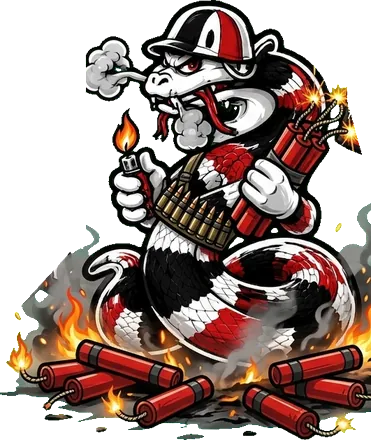
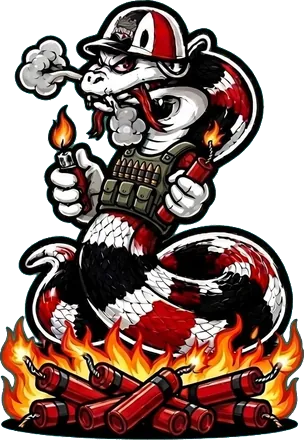
Tricolor do Arruda FC: Cobra da Dinamite refeita da prancha SOZINHA que o dono mandou — agora sem perda nenhuma
O Diego mandou a mascote sozinha no fundo verde (o caminho sugerido quando a
prancha cheia não tinha recorte honesto). Resultado: a cobra inteira, com a
fumaça do rosto, as duas colunas de fumaça, as faíscas e o fogo do chão —
nada cortado. 304x440, 41,5 KB.

Receita nova, pra fundo verde ESCURO (esta prancha): a chave por g-max(r,b)
NÃO serve, porque o fundo tem d≈70, dentro da faixa da arte. A que funciona é
por DISTÂNCIA da cor do fundo (medido: fundo a ≤8, arte a ≥28). E o fundo
escuro TINGE o contorno preto do desenho, deixando um fio verde-musgo em
volta — então todo pixel em que o verde lidera vira neutro (a arte não tem
verde nenhum). Conferido: 0 pixels esverdeados na borda.

Claude-Session: https://claude.ai/code/session_018Ap1zPCMVL9XeZJN3u93ZA

diff --git a/src/escalacao/mascotes.tsx b/src/escalacao/mascotes.tsx
@@ -471,18 +471,16 @@ export const MASCOTES: Record<string, ReactNode> = {
   // 16/08): a MESMA cobra que aparece no escudo, recortada dele (boné virado,
   // cachimbo fumegando, isqueiro na mão). Arte própria do dono; o recorte do
   // escudo de trás foi feito aqui. mascote_key = "cobra_arruda".
-  // 🔁 10/09 (madrugada): trocada de novo, a pedido do Diego, pela COBRA DA DINAMITE
-  // (boné tricolor, isqueiro, cartucheira, bananas de dinamite e fogo no chão).
-  // 371x440 no arquivo. Na prancha ela estava POR CIMA do escudo e da camisa: o
-  // recorte seguiu o contorno da camisa (x=824/858) e a borda MEDIDA do escudo
-  // (diagonal de (420,498) a (290,640), com 12 px de folga) — a fumaça que subia
-  // sobre a camisa e a que cobria o escudo se perderam; o Diego viu e aprovou.
-  // 🔁 09/09: ARTE NOVA do dono — a cobra-coral de camisa tricolor, punhos fechados
-  // e pé na bola (sem cachimbo). 232x440 no arquivo (era 319x440): é alta e estreita.
-  // O punho direito ENCOSTAVA na manga da camisa da prancha — corte em degraus
-  // (acima do punho tudo à direita de x=958 é camisa; na altura do punho, 1000).
+  // 🔁 10/09 (madrugada): a COBRA DA DINAMITE — boné tricolor, isqueiro, cartucheira,
+  // bananas de dinamite e fogo no chão. 304x440 no arquivo.
+  // 🧼 A 1ª prancha vinha com a cobra POR CIMA do escudo e da camisa (fumaça e cauda
+  // sobrepostas, sem recorte honesto). O Diego pediu a arte SOZINHA e mandou de novo —
+  // é esta. Fundo verde-ESCURO desta vez: a chave é por DISTÂNCIA da cor do fundo
+  // (medida: fundo a ≤8 de distância, arte a ≥28), não pelo verde puro. Como o fundo
+  // escuro TINGE o contorno preto do desenho (fio verde-musgo em volta), todo pixel em
+  // que o verde lidera vira neutro — a arte não tem verde nenhum. Zero perda.
   cobra_arruda: (
-    <img src={arrudaCobraImg} height={176} width={Math.round(176 * 371 / 440)} alt="Cobra Coral — Tricolor do Arruda FC" style={{ flex: 'none', display: 'block', objectFit: 'contain' }} />
+    <img src={arrudaCobraImg} height={176} width={Math.round(176 * 304 / 440)} alt="Cobra Coral — Tricolor do Arruda FC" style={{ flex: 'none', display: 'block', objectFit: 'contain' }} />
   ),
   // 🃏⚫⚪ o CORINGA (mascote dos Coringas do Diniz — lucas_calefi, aprovado 16/08):
   // o coringa de camisa listrada preto e branco, com a bola no braço e a carta na

diff --git a/docs/pendencias.md b/docs/pendencias.md
@@ -264,9 +264,15 @@ isqueiro, cartucheira, bananas de dinamite e fogo) pra virar a mascote.
   a prévia pro Diego SEM publicar. Opções: (a) usar assim; (b) pedir ao Geovany a
   cobra SOZINHA na prancha verde (ideal); (c) manter a Cobra Coral de punhos.
   **Decisão do Diego (22h34):** *"tire esse pedacinho que sobrou do escudo e mande
-  o mockup logo e publique"* → publicada (371x440, 40,9 KB), com a borda do escudo
-  MEDIDA na régua (diagonal (420,498)→(290,640), folga 12 px). A fumaça sobre a
-  camisa e sobre o escudo ficou de fora, com o OK dele.
+  o mockup logo e publique"* → publicada (371x440). **E logo depois ele mandou a arte
+  SOZINHA na prancha** (o caminho que eu tinha sugerido): recortada sem perda nenhuma
+  (304x440, 41,5 KB) e republicada — é esta que está no ar.
+- 🟢 **Prancha de fundo verde ESCURO (nova receita)**: a chave por `g-max(r,b)` não
+  serve (o fundo tem d≈70, dentro da faixa da arte). A que funciona é por DISTÂNCIA
+  da cor do fundo (fundo ≤ 8, arte ≥ 28) + despill NEUTRALIZANTE: fundo escuro tinge
+  o CONTORNO PRETO do desenho e deixa um fio verde-musgo em volta, então todo pixel
+  em que o verde lidera (g > r+10 e g > b+10) vira neutro. Conferido: 0 pixels
+  esverdeados restantes.
 - 📏 Lição pro roteiro: prancha com 3 peças que se SOBREPÕEM (não só encostam)
   não dá recorte honesto — pedir as peças separadas antes de começar.
 
